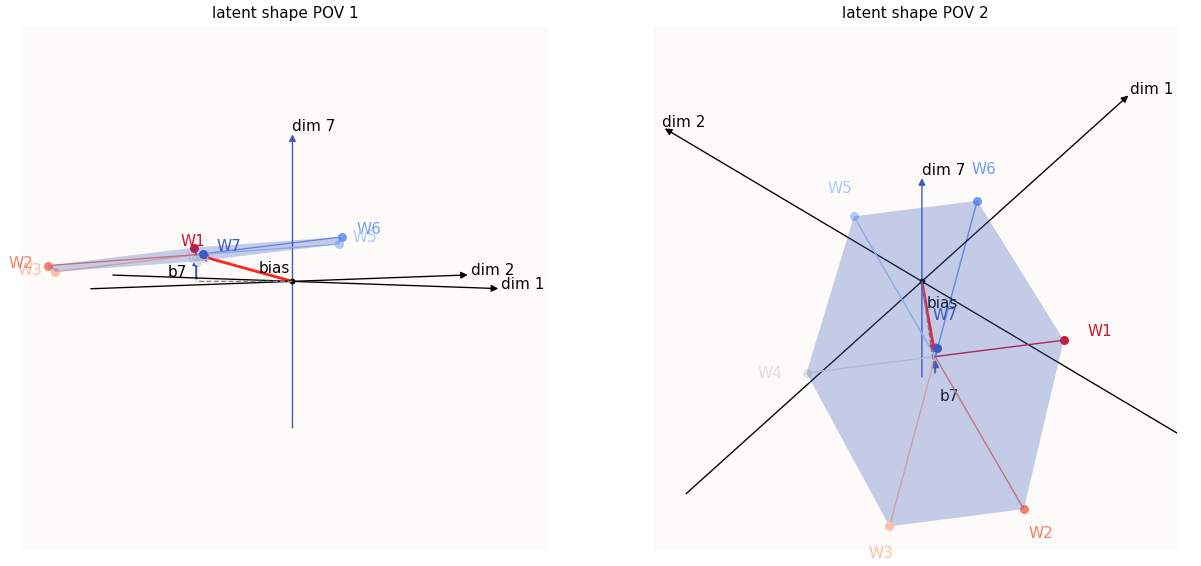
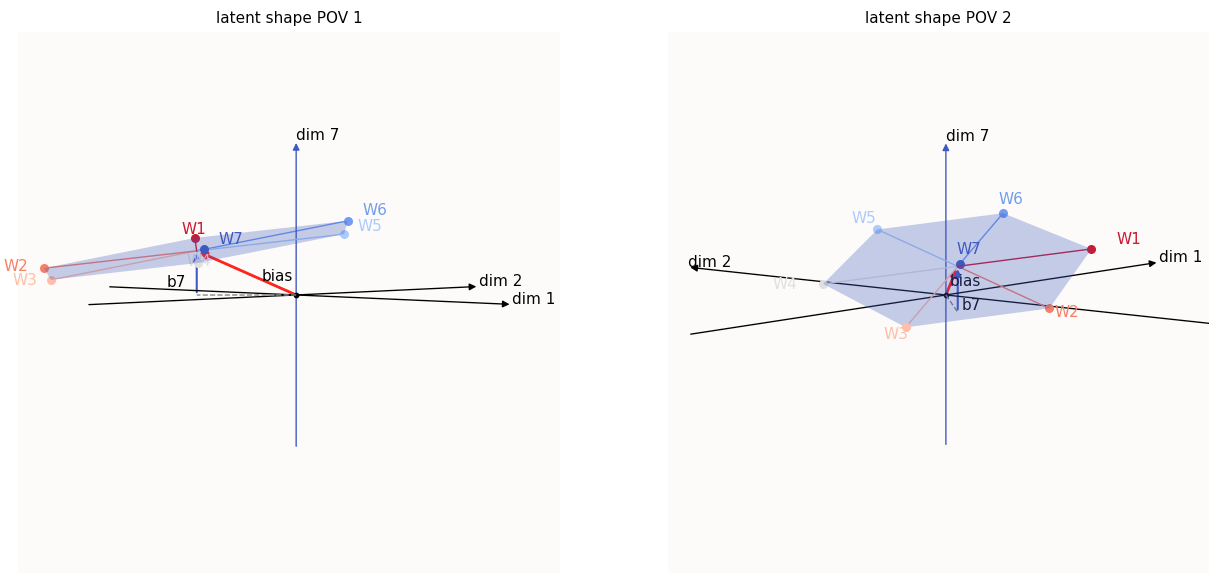
b_7 = 0

diff --git a/_posts/2024-11-04-opt-failure.md b/_posts/2024-11-04-opt-failure.md
@@ -164,7 +164,9 @@ I find this intuition very clear: if you pivot a plane about the $n$-dimensional
 <img src = "../../images/opt_failure/splat_4d_perfect.png" alt="Four 4D axial vectors embedded into 2D space, + some rotation" width="350px">
 *Repeat: four 4D axial vectors embedded into 2D space, + some rotation*
 
-> While I am very confident that this upper bound is correct, and can be achieved with vector sets similar to $[1, -1, 0, 0], [-1, 1, 0, 0], [0, 0, 1, -1], [0, 0, -1, 1]$ (in 4D), I have no proof. It would be satisfying to have a proof, and I would greatly appreciate one.
+> While I am quite confident that this upper bound is correct, and can be achieved with vector sets similar to $[1, -1, 0, 0], [-1, 1, 0, 0], [0, 0, 1, -1], [0, 0, -1, 1]$ (in 4D), I have no proof. It would be satisfying to have a proof, and I would greatly appreciate one.
+
+>**Actually...:** A friend came by to prove this wrong. This is only true in the case of $m = 2$, but he had a pretty stunning postulate: if you have an $s$-hot dataset, you need a $(s + 1)$-dimensional latent space, + bias, for perfect reconstruction. David - wanna provide a proof here?
 
 So, $W$ and $\text{ReLU}$ are definitely not sufficient to account for what Anthropic found - "in fact, the ReLU output model can memorize any number of orthonormal training examples using $T$-gons if given infinite floating-point precision," where $T$ represents the size of the dataset. The memorized training examples have these latent representations:
 
@@ -386,6 +388,133 @@ Because $Wx$ is the hidden vector (i.e. "somewhere on the latent plane"), if $h 
 Relatedly, the second thing to note is that the other features $W_i$ that lie on the same side of <span style="color: mediumblue">$W_7$</span> will also tilt towards a larger value in the 7-th dimension, while the other feathres $W_i$ on the other side of <span style="color: mediumblue">$W_7$</span> will tilt towards a smaller value in the 7-th dimension. To illustrate, let's suppose <span style="color: mediumblue">$W_7$</span> is a mini version of <span style="color: mediumslateblue">$W_6$</span>, i.e. <span style="color: mediumblue">$W_7$</span> $ = a \cdot $<span style="color: mediumslateblue">$W_6$</span> for small $a$:
 
 <img src = "../../images/opt_failure/disc_tilted_W6.png" alt="W7 = 0.2 * W6" width="100%">
-*Tilt introduced when W7 = 0.05 * W6*
+*Tilt introduced when W7 = 0.06 * W6*
 
-For a tiny value of $a = 0.05$, we introduced a tiny tilt to the latent hexagon. Both <span style="color: mediumblue">$W_7$</span> and <span style="color: mediumslateblue">$W_6$</span> are now tilting towards the positive <span style="color: mediumblue">$W_7$</span> direction.
+For a tiny value of $a = 0.06$, we introduced a tiny tilt to the latent hexagon. **We limit the tilt such that the entire latent hexagon is still positive in <span style="color: mediumblue">dim-$7$</span>, for our initial analysis.** Both <span style="color: mediumblue">$W_7$</span> and <span style="color: mediumslateblue">$W_6$</span> are now tilting towards the positive direction along the <span style="color: mediumblue">dim-$7$</span> axis. To be more complete, features <span style="color: lightskyblue">$W_5$</span>, <span style="color: mediumslateblue">$W_6$</span>, and <span style="color: firebrick">$W_1$</span> are on the same side of the tilt as <span style="color: mediumblue">$W_7$</span> and are now more positive in the <span style="color: mediumblue">$7$-th dimension</span>, while features <span style="color: darksalmon">$W_2$</span>, <span style="color: peachpuff">$W_3$</span>, and <span style="color: darkgrey">$W_4$</span> are on the other side of the tilt, and have less positive values in the <span style="color: mediumblue">$7$-th dimension</span>. 
+
+Remember that correct value that we would like the model to reconstruct in the <span style="color: mediumblue">$7$-th dimension</span> is $0$ for the first 6 data samples, because each of the first 6 data samples are not supposed to have an activated <span style="color: mediumblue">$7$-th feature</span>. This means that because <span style="color: lightskyblue">$W_5$</span>, <span style="color: mediumslateblue">$W_6$</span>, and <span style="color: firebrick">$W_1$</span> now have a more positive value (further from $0$) in the <span style="color: mediumblue">$7$-th dimension</span>, they are more WRONG, whereas because <span style="color: darksalmon">$W_2$</span>, <span style="color: peachpuff">$W_3$</span>, and <span style="color: darkgrey">$W_4$</span> now have values closer to $0$ in the <span style="color: mediumblue">$7$-th dimension</span>, they are now more CORRECT.
+
+You may think that there is symmetry here - the total additional error incurred (in terms of L2 distance) by the newly upward-tilted features is equal to the error reduced by the newly downward-tilted features - so the overall "correctness" of the untilted model and the tilted model is still the same, but this is not the case. What's happening here is that because our loss (MSE) is convex (specifically quadratic), the additional error incurred by the upward-tilted features is larger than the error reduced by the newly downward-tilted features. We can sketch out a quick proof by looking at the loss changes incurred by <span style="color: mediumslateblue">$W_6$</span> and its mirror, <span style="color: peachpuff">$W_3$</span>:
+
+$$
+\begin{align*}
+\text{Old Loss} &= \text{Old Loss}_{W_6} + \text{Old Loss}_{W_3} \\
+& = 2 b_7^2 \\
+\text{New Loss} &= \text{New Loss}_{W_6} + \text{New Loss}_{W_3} \\ 
+& = (b_7 + \Delta)^2 + (b_7 - \Delta)^2 \\
+& = 2 b_7^2 + 2 \Delta^2 > 2 b_7^2
+\end{align*}
+$$
+
+This is simply Jensen's Inequality at work. Again, convexity gives us the standard result of L2-regression (OLS regression) preferring mean values. **The consequence: any tilt will incur more loss and the model will learn to correct it by preferring to set <span style="color: mediumblue">$W_7$</span> back to $0$.** You can also calculate the gradients of the loss of each of the reconstructed data samples $\hat{y}^{(i \neq 7)}$ with respect to <span style="color: mediumblue">$W_7$</span> and observe that it will always point in the <span style="color: mediumblue">$W_7$</span> direction, which means that the update will be in the direction of <span style="color: mediumblue">$-W_7$</span>.
+
+### When can the gradient favor more tilt after Symmetric Failure has happened?
+
+In the previous section, we showed that by considering the other 6 features (i.e. $W_{i \neq 7}$), less tilt is always desired. However, we did not consider the error reduced by the newly learnt, non-$0$ value of <span style="color: mediumblue">$W_7$</span>. In particular, we are interested to see if the error reduced for <span style="color: mediumblue">feature 7</span> can compensate for the overall increase in error for the other 6 features caused by the tilt, and if so, under what circumstances. Because if there are scenarios where it can compensate for the tilt - and of course there must be, how else can Perfect Optimization happen? - then we will have understood a mechanism for avoiding Symmetric Failure well. Be warned, a lot of this is just banging out the math.
+
+Let's look at the gradient of the loss of the reconstruction of data sample <span style="color: mediumblue">$x_7$</span> w.r.t <span style="color: mediumblue">$W_7$</span>:
+
+$$
+\begin{align*}
+\frac{\partial \mathcal{L} (x_7)}{\partial W_7} & = \left( \hat{y}^{(7)} - y^{(7)}\right) \cdot \mathbb{1} \left\{ W^\top W x_7 + b > 0 \right\} \cdot \frac{\partial (W^\top W x_7 + b) }{\partial W_7} \\
+& = \left( \hat{y}^{(7)} - y^{(7)}\right) \cdot \mathbb{1} \left\{ W^\top W_7 + b > 0 \right\} \cdot \frac{\partial (W^\top W_7 + b) }{\partial W_7} \text{, because } x_7 = e_7\\
+
+& = \left( \hat{y}^{(7)} - y^{(7)}\right) \cdot 
+\begin{bmatrix}
+0 \\ 0 \\ \vdots \\ 0 \\ \vdots \\ 1
+\end{bmatrix}
+\cdot 
+\begin{bmatrix}
+\text{don't care} \\
+\text{don't care} \\
+\vdots \\
+\text{don't care} \\
+\vdots \\
+\frac{\partial (W_7^\top W_7 + b_7) }{\partial W_7}
+\end{bmatrix} \text{, because the other 6 features don't activate} \\
+
+& = 
+\begin{bmatrix}
+\text{don't care} \\
+\text{don't care} \\
+\vdots \\
+\text{don't care} \\
+\vdots \\
+\left( \text{ReLU} \left( W_7^\top W_7 + b_7\right) - 1\right) 
+\end{bmatrix}
+\cdot 
+\begin{bmatrix}
+\text{don't care} \\
+\text{don't care} \\
+\vdots \\
+\text{don't care} \\
+\vdots \\
+2W_7
+\end{bmatrix} \\
+
+& = 2 \left( \text{ReLU} \left( \|W_7\|_2^2 + b_7\right) - 1\right) \cdot W_7 \\
+& = 2 \left( \|W_7\|_2^2 + b_7 - 1\right) \cdot W_7 \text{ (can drop ReLU as entire latent shape is > 0 in dim 7)}
+\end{align*} \\
+
+$$
+
+And let's also look at the gradient of the loss of the reconstruction of another data sample (not <span style="color: mediumblue">$x_7$</span>), call it sample $x_j$ (where $j \neq 7$) w.r.t <span style="color: mediumblue">$W_7$</span>:
+
+$$
+\begin{align*}
+\frac{\partial \mathcal{L} (x_j)}{\partial W_7} & = \left( \hat{y}^{(j)} - y^{(j)}\right) \cdot \mathbb{1} \left\{ W^\top W x_j + b > 0 \right\} \cdot \frac{\partial (W^\top W x_j + b) }{\partial W_7} \\
+& = \cdots \\
+& = \left( \text{ReLU} \left( W_7^\top W_j + b_7\right) - 0\right) \cdot W_j \\
+& = \left( W_7^\top W_j + b_7\right) \cdot W_j \text{ (likewise, can drop ReLU)}
+\end{align*}
+$$
+
+The sum of these gradients from all 6 $x_{j \neq 7}$ is hence:
+
+$$
+\begin{align*}
+\sum_{j \neq 7} \frac{\partial \mathcal{L} (x_j)}{\partial W_7} & = \sum_j \left( W_7^\top W_j + b_7\right) \cdot W_j \\
+\end{align*}
+$$
+
+There's actually a rather neat way to simplify this, and it hinges on the fact that the features $W_{j \neq 7}$ are arranged in a symmetric fashion, where the <span style="color: mediumblue">$W_7$</span> line is the line of symmetry. This means that all the components of gradients that are orthogonal to the <span style="color: mediumblue">$W_7$</span> direction will all cancel each other out. For example, if <span style="color: mediumblue">$W_7$</span> is "front" to us, then the left-ward direction of <span style="color: mediumslateblue">$\frac{\mathcal{L} x_6}{W_7}$</span> will cancel out the right-ward direction of <span style="color: firebrick">$\frac{\mathcal{L} x_1}{W_7}$</span>. Likewise, the left-ward direction of <span style="color: darkgrey">$\frac{\mathcal{L} x_4}{W_7}$</span> will cancel out the right-ward direction of <span style="color: darksalmon">$\frac{\mathcal{L} x_2}{W_7}$</span>. This means that we only have to consider the "front-back" <span style="color: mediumblue">($W_7$)</span> component of all these gradients, i.e. we can work with only the projections of these gradients onto <span style="color: mediumblue">$W_7$</span>.
+
+$$
+\begin{align*}
+\sum_{j \neq 7} \frac{\partial \mathcal{L} (x_j)}{\partial W_7} & = \sum_{j \neq 7} \left( W_7^\top W_j + b_7 \right) \cdot \hat{W}_7^\top W_j \cdot \hat{W}_7 \text{, by projecting } W_j \text{ to } W_7  \\
+& = \sum_{j \neq 7} \left\{ \left(W_7^\top W_j\right) \cdot \hat{W}_7^\top W_j + b_7 \cdot \hat{W}_7^\top W_j \right\} \cdot \hat{W}_7 \\
+& = \sum_{j \neq 7} \left \{ \|W_7\|_2 \left( \hat{W}_7^\top W_j\right)^2 + b_7 \cdot \hat{W}_7^\top W_j\right\} \cdot \hat{W_7} \\
+& = \hat{W}_7 \cdot \sum_{j \neq 7} \left\{ \|W_7\|_2 \left( \hat{W}_7^\top W_j\right)^2 \right\} + \hat{W}_7  \cdot \sum_{j \neq 7} \left\{ b_7 \cdot \hat{W}_7^\top W_j\right\} \\
+& = \hat{W}_7 \cdot \sum_{j \neq 7} \left\{ \|W_7\|_2 \left( \hat{W}_7^\top W_j\right)^2 \right\} \text{, because all } W_j \text{ cancel out} \\
+& = W_7 \cdot \sum_{j \neq 7} \left( \hat{W}_7^\top W_j\right)^2
+\end{align*}
+$$
+
+I find this simplified form appallingly... simple; great because it significantly simplifies our calculations. So in order for us to favor tilt, the update has to be in the <span style="color: mediumblue">$W_7$</span> direction, which means the gradient has to be in the <span style="color: mediumblue">$-W_7$</span> direction, which means that:
+
+$$
+\begin{align*}
+\frac{\partial \mathcal{L} (x_7)}{\partial W_7} + \sum_{j \neq 7} \frac{\partial \mathcal{L} (x_j)}{\partial W_7} & = (< 0) \cdot W_7 \\
+2 \left( \|W_7\|_2^2 + b_7 - 1\right) \cdot W_7 + W_7 \cdot \sum_{j \neq 7} \left( \hat{W}_7^\top W_j\right)^2 & = (< 0) \cdot W_7 \\
+2 \left( \|W_7\|_2^2 + b_7 - 1\right) + \sum_{j \neq 7} \left( \hat{W}_7^\top W_j\right)^2 & < 0 \\
+2 \left[ 1 - \left( \|W_7\|_2^2 + b_7 \right) \right] & > \sum_{j \neq 7} \left( \hat{W}_7^\top W_j\right)^2
+\end{align*} \\
+$$
+
+Without having to write out too much further math, we can see that this is impossible for any non-0 value of $W_7$. How? We simply observe that:
+* Both sides are quadratic in $W_7$, which means the overall shape of $LHS - RHS$ is also quadratic.
+* Since we are analyzing the regime where the entire latent hexagon is positive in <span style="color: mediumblue">dimension $7$</span>, that also means that <span style="color: mediumblue">$b_7 > 0$</span>. That means the maxmum value of $LHS$ is just $2$. In particular, to maximize the $LHS$, we want to minimize <span style="color: mediumblue">$\|W_7\|_2$</span>, and to minimize the $RHS$, we also want to minimize <span style="color: mediumblue">$\|W_7\|_2$</span>. **Both sides will contribute optimization pressure to force <span style="color: mediumblue">$W_7$</span> to $0$.**
+
+### What if Symmetric Failure and $b_7 = 0$?
+
+Very briefly, we can extend our intuition from the previous section to make conclusions for the case of Symmetric Failure and $b_7 = 0$. Most notably, this means that the latent hexagon is pivoted on the dim-$7 = 0$ hyperplane, such that if there is a tilt, half of the latent hexagon will tilt upwards, while the other half will tilt under dim-$7 = 0$. 
+
+<img src = "../../images/opt_failure/disc_zero_dim7.png" alt="disc zero dim7" width="100%">
+*Tilted latent hexagon at b7 = 0*
+
+
+This is significant because the half that is in the negative region (in dim-$7$) will be "deactivated" by ReLU (i.e. set to $0$). This impacts $\mathcal{L}(x_{j \neq 7})$, where $j$ are the indices of the features that are negative in dim-$7$, because they are now $0$. This means that the model now has no loss for samples <span style="color: darksalmon">$x_2$</span>, <span style="color: peachpuff">$x_3$</span>, and <span style="color: darkgrey">$x_4$</span>, hence these samples no longer exert any optimization pressure to "untilt" the latent hexagon, but the other samples still exert that same untilting optimization pressure. The above calculation will still hold, just that there are now only half the number of $W_j$'s.
+
+So now, **we conclude that when <span style="color: mediumblue">$b_7 \geq 0$</span> and we're in the Symmetric Failure case**, we're stuck. Constrained to  <span style="color: mediumblue">$b_7 \geq 0$</span>, **this is the best we can do.**
+
+## What if $b_7 < 0$?
